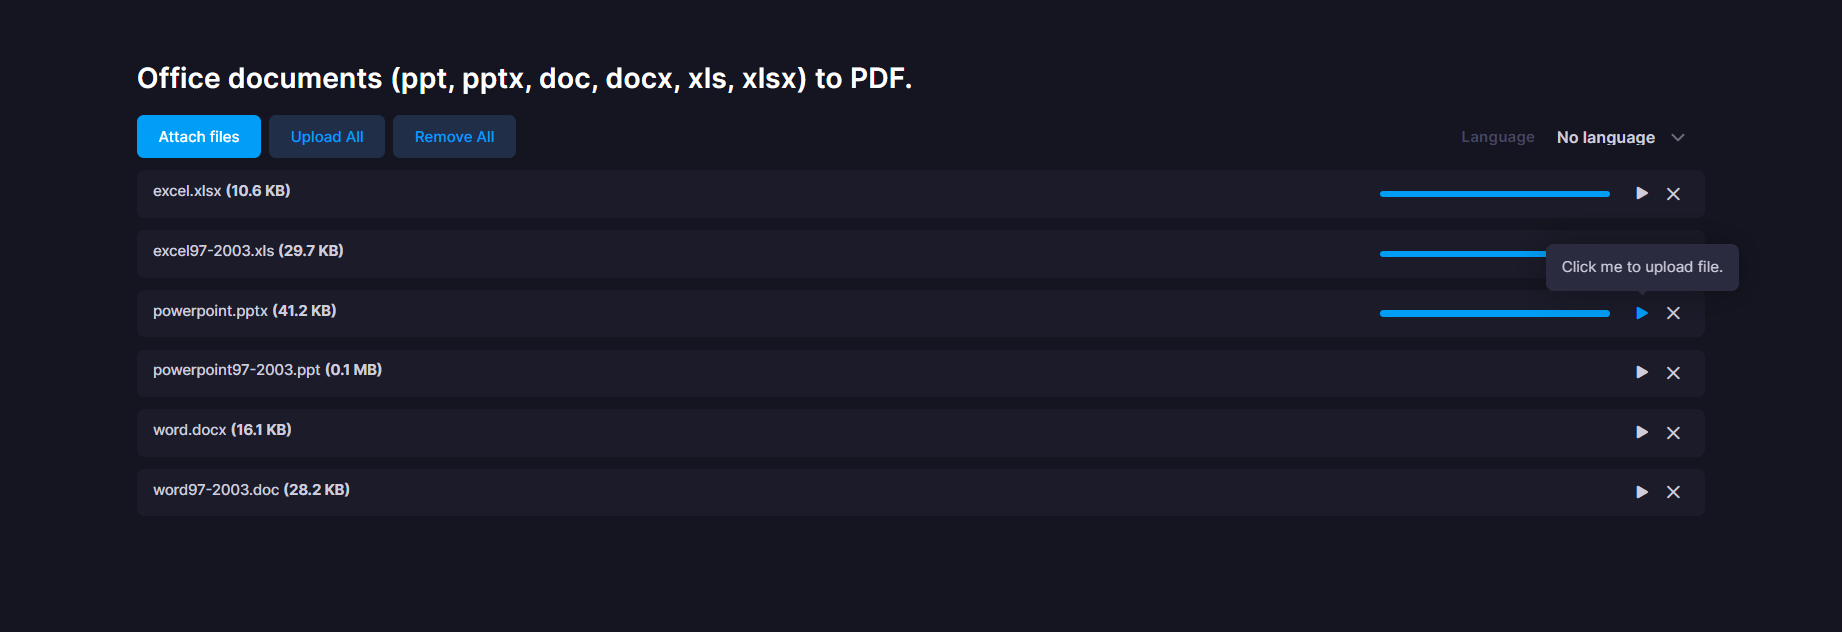
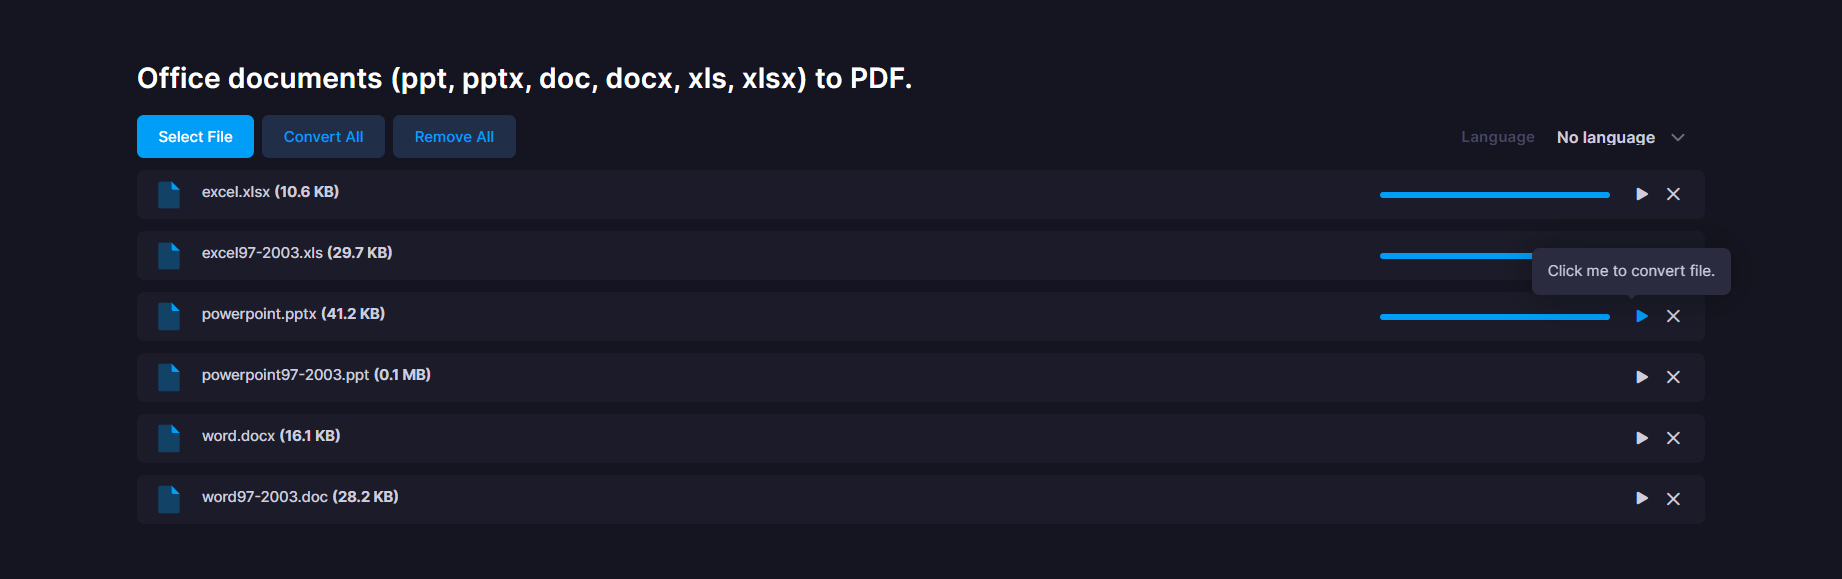
Changed some display text in the web demo.

diff --git a/docs/web-demo/public/index.html b/docs/web-demo/public/index.html
@@ -47,8 +47,8 @@
       <div data-ref="dropzone" class="dropzone dropzone-queue mb-2">
         <!--begin::Controls-->
         <div class="dropzone-panel mb-lg-0 mb-2 d-flex">
-          <a data-on-attach-files data-ref="select" class="dropzone-select btn btn-sm btn-primary me-2">Attach files</a>
-          <a data-ref="uploadAll" class="dropzone-upload btn btn-sm btn-light-primary me-2">Upload All</a>
+          <a data-ref="select" class="dropzone-select btn btn-sm btn-primary me-2">Select File</a>
+          <a data-ref="uploadAll" class="dropzone-upload btn btn-sm btn-light-primary me-2">Convert All</a>
           <a data-ref="removeAll" class="dropzone-remove-all btn btn-sm btn-light-primary">Remove All</a>
           <!--begin::Language-->
           <div class="d-flex align-items-center fw-bold ms-auto">
@@ -228,6 +228,14 @@
       ].join(','),
       previewTemplate: 
         `<div class="dropzone-item">
+          <!--begin::Svg Icon | path: icons/duotune/files/fil003.svg-->
+          <span class="svg-icon svg-icon-2x svg-icon-primary me-4">
+            <svg width="24" height="24" viewBox="0 0 24 24" fill="none" xmlns="http://www.w3.org/2000/svg">
+              <path opacity="0.3" d="M19 22H5C4.4 22 4 21.6 4 21V3C4 2.4 4.4 2 5 2H14L20 8V21C20 21.6 19.6 22 19 22Z" fill="currentColor"></path>
+              <path d="M15 8H20L14 2V7C14 7.6 14.4 8 15 8Z" fill="currentColor"></path>
+            </svg>
+          </span>
+          <!--end::Svg Icon-->
           <!--begin::File-->
           <div class="dropzone-file">
             <div class="dropzone-filename text-gray-800" style="cursor: default;">
@@ -250,7 +258,7 @@
             <span
               class="dropzone-start"
               data-bs-toggle="tooltip"
-              title="Click me to upload file.">
+              title="Click me to convert file.">
               <i class="bi bi-play-fill fs-3"></i></span>
             <a
               class="dropzone-download d-none"

diff --git a/CHANGELOG.md b/CHANGELOG.md
@@ -1,6 +1,10 @@
 # Changelog
 All notable changes to this project will be documented in this file.
 
+## [1.0.8] - 2022/12/13
+### Changed
+- Changed some display text in the web demo.
+
 ## [1.0.7] - 2022/12/12
 ### Changed
 - Added instructions for installing the latest LibreOffice to README.md.
@@ -48,3 +52,4 @@ All notable changes to this project will be documented in this file.
 [1.0.5]: https://github.com/takuya-motoshima/msoffice2pdf/compare/v1.0.4...v1.0.5
 [1.0.6]: https://github.com/takuya-motoshima/msoffice2pdf/compare/v1.0.5...v1.0.6
 [1.0.7]: https://github.com/takuya-motoshima/msoffice2pdf/compare/v1.0.6...v1.0.7
+[1.0.8]: https://github.com/takuya-motoshima/msoffice2pdf/compare/v1.0.7...v1.0.8
